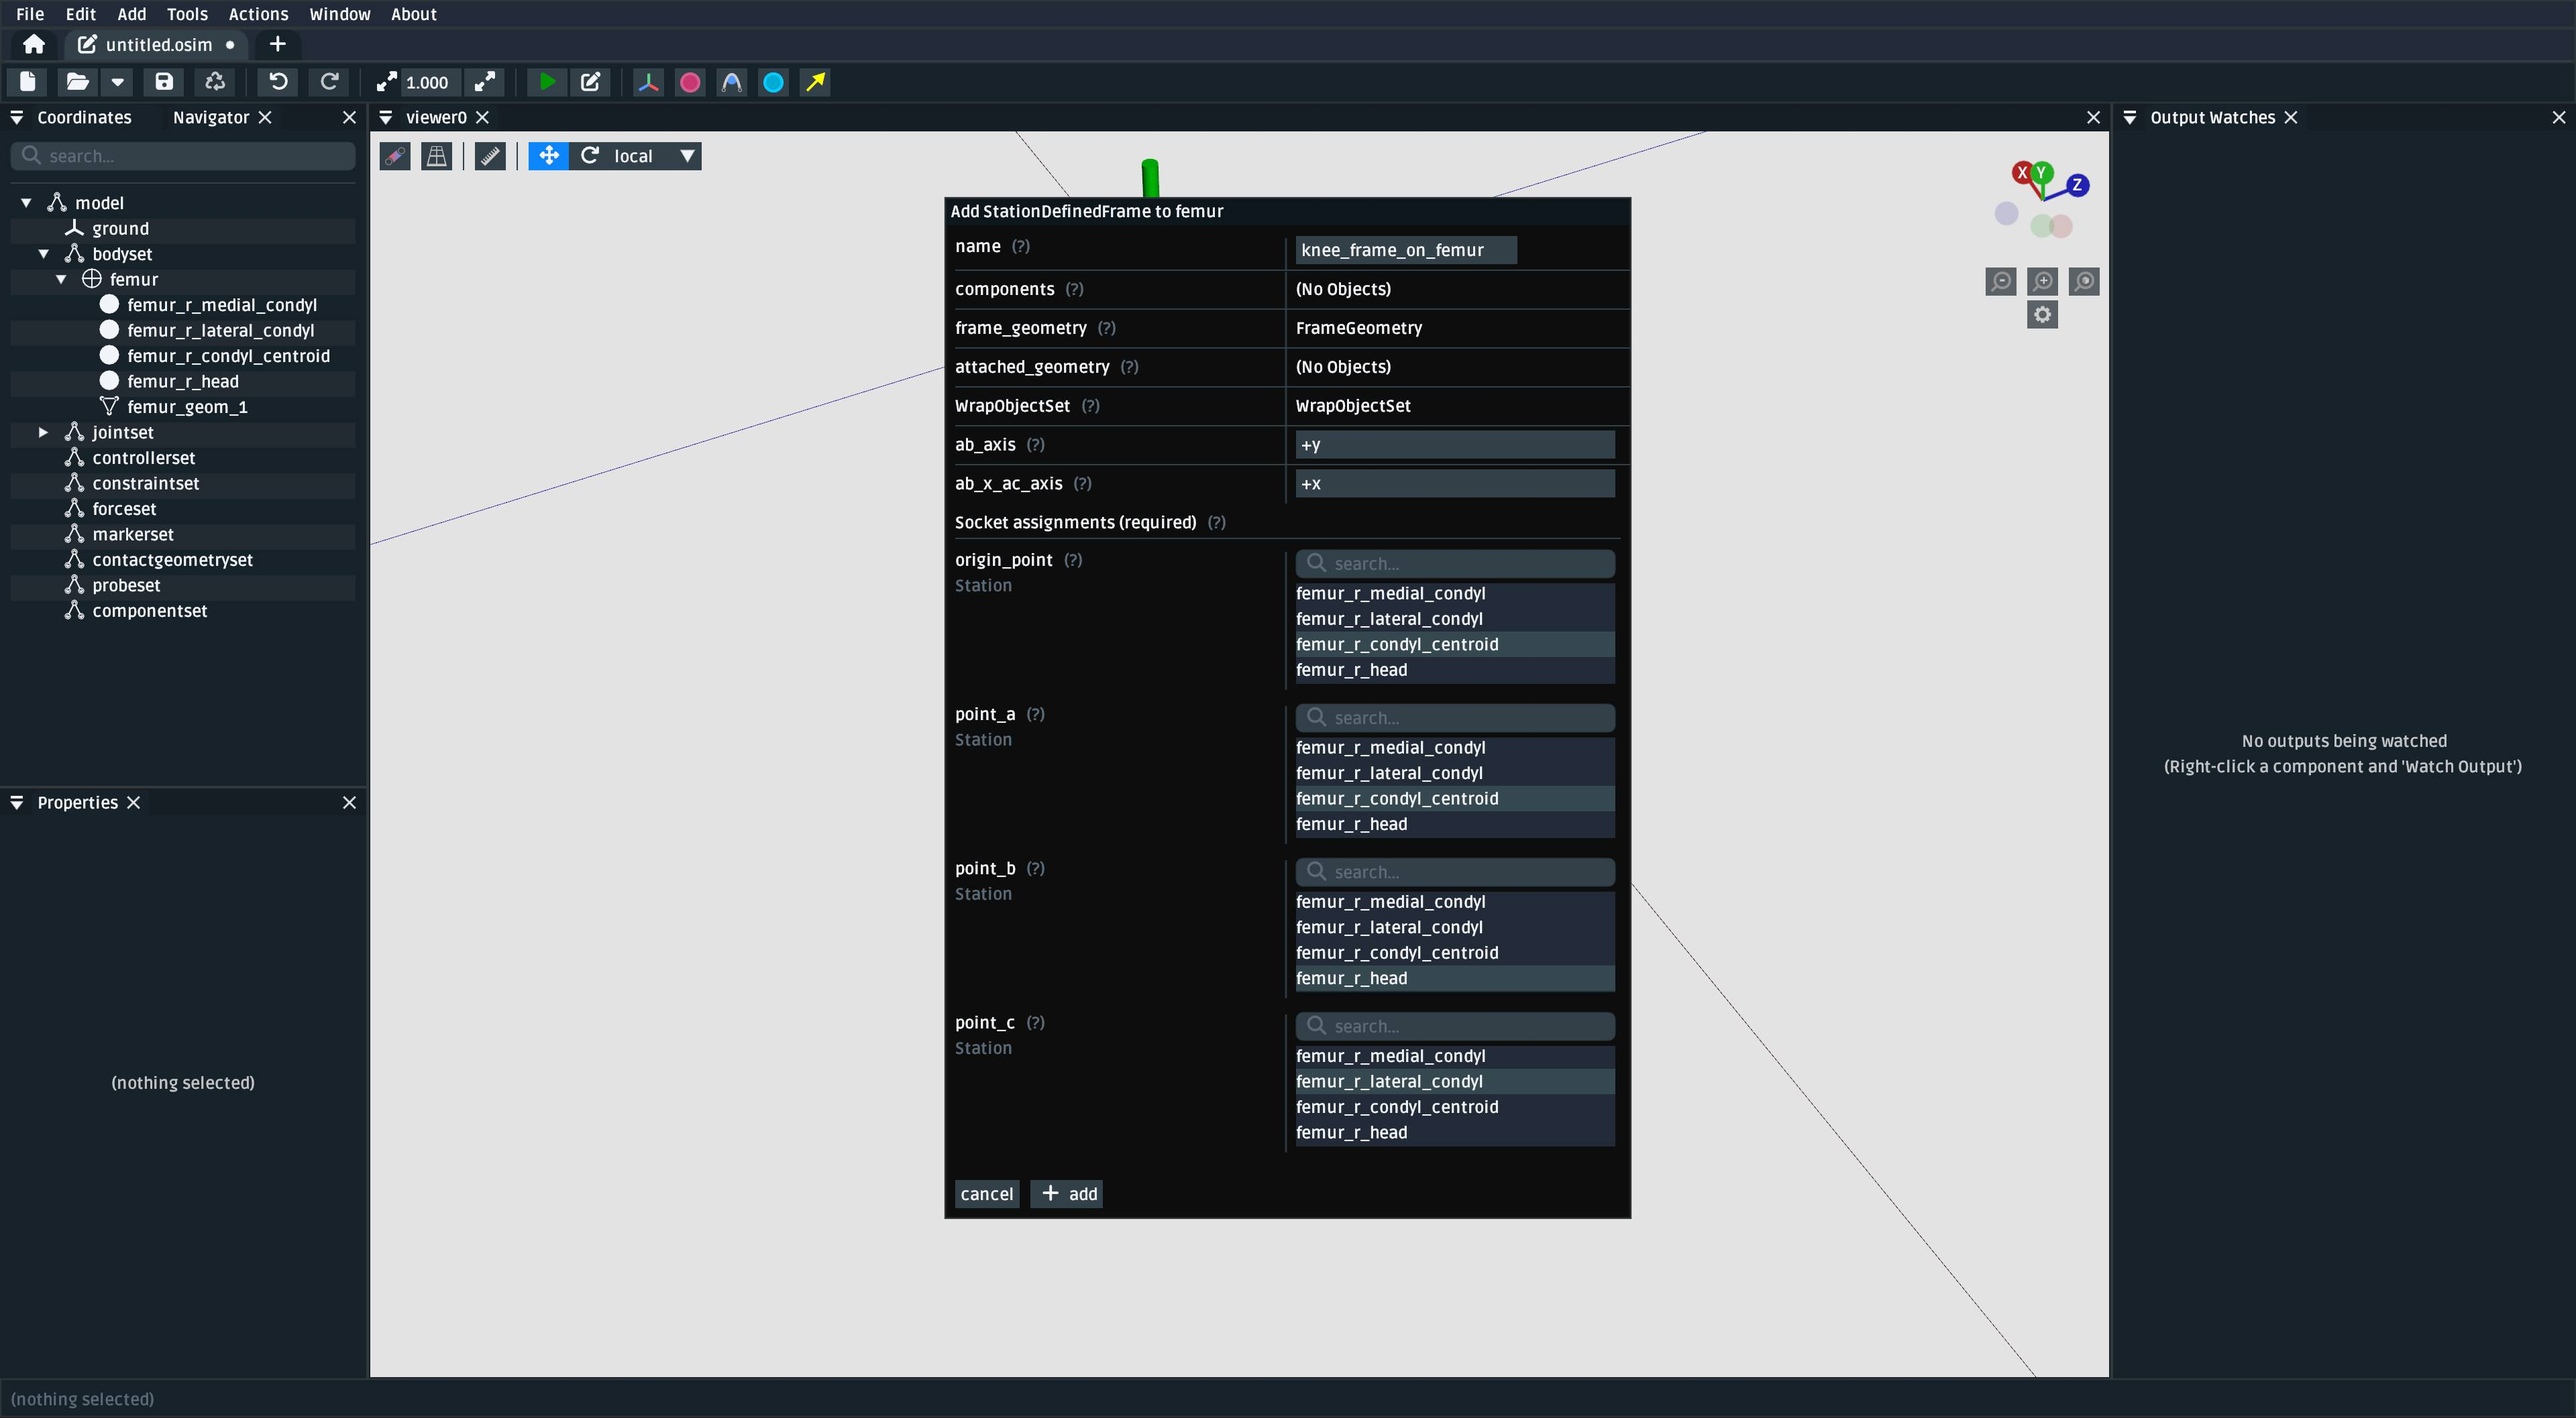
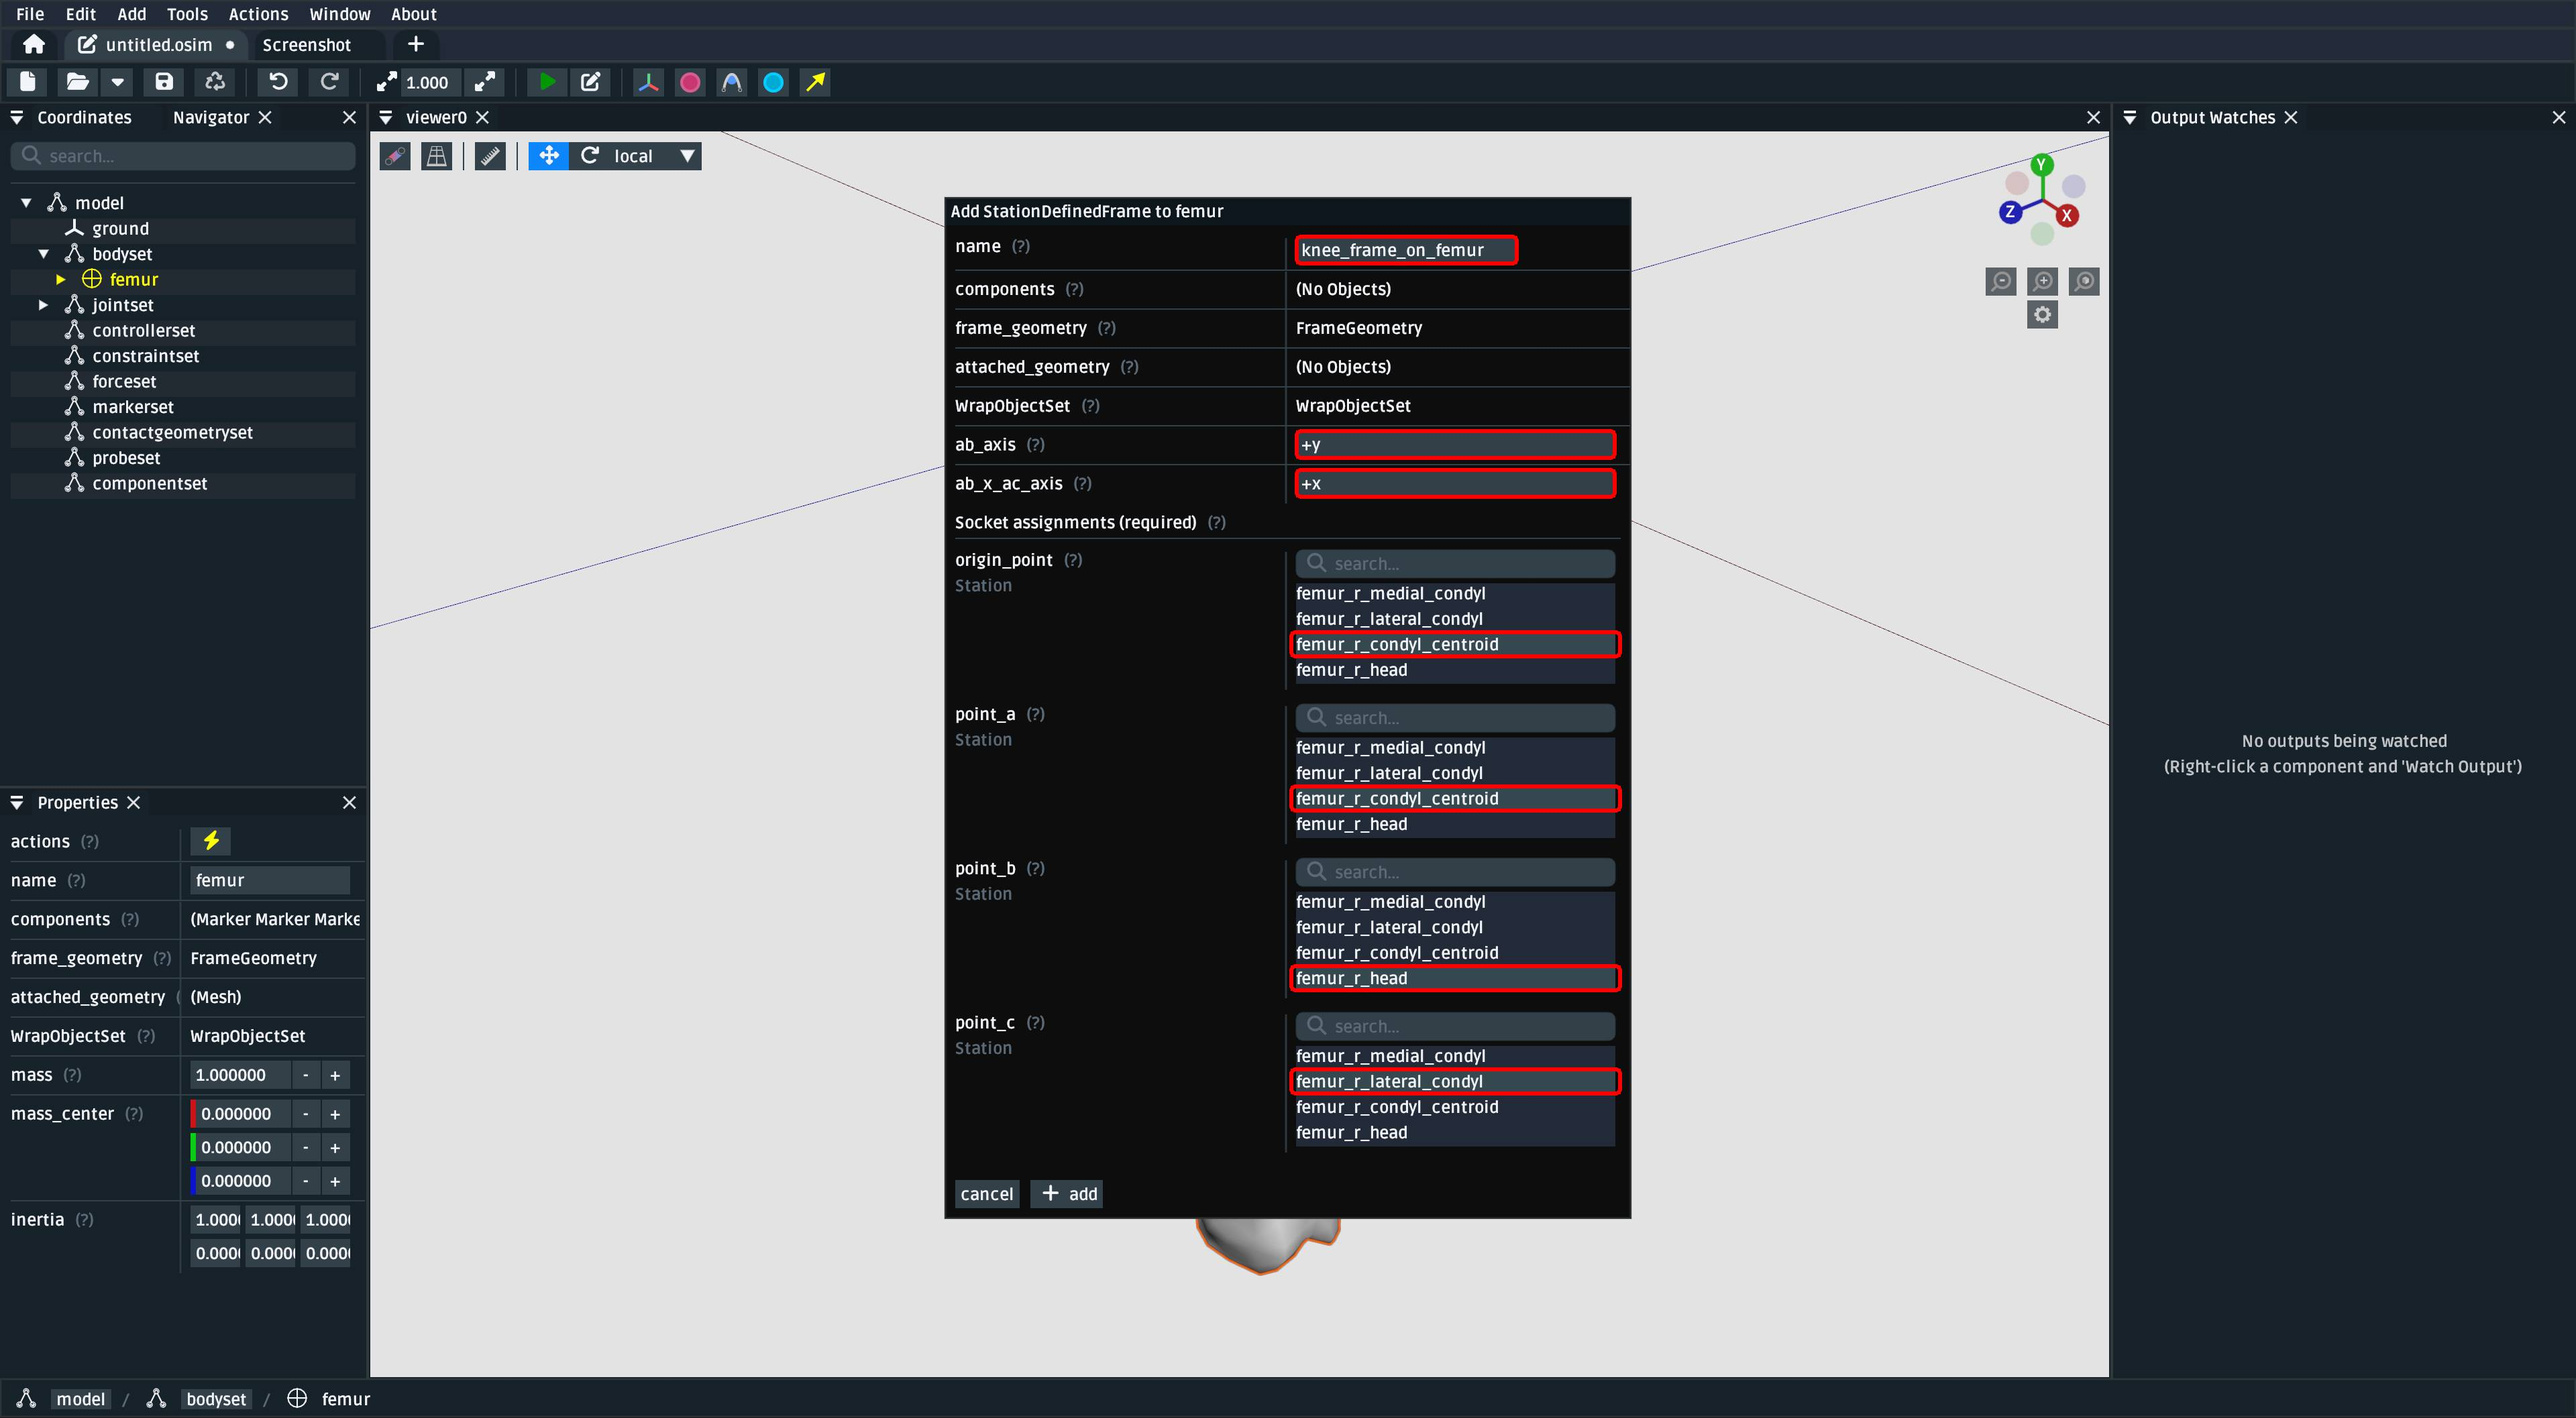
Add more content to make-a-knee

diff --git a/docs/source/make-a-knee.rst b/docs/source/make-a-knee.rst
@@ -63,8 +63,8 @@ Create a blank model from the home screen (explained in :ref:`create-new-model`)
 Add a Femur Body
 ----------------
 
-Add a femur body with the femur mesh attached to it to the model. For this model,
-use the following parameters:
+Add a femur body with the femur mesh (``femur_r.vtp``) attached to it to the
+model. For this model, use the following parameters:
 
 .. figure:: _static/make-a-knee/add-femur-body.jpeg
     :width: 60%
@@ -83,7 +83,10 @@ Import Femur Landmarks
 
 This model will use a landmark-defined approach to defining the knee frame (explained
 in :doc:`station-defined-frames`). To do that, we'll need landmarks on the femur that
-correspond to the points that the ISB REF TODO use to define the knee coordinate system.
+correspond to the points that can be used to define the knee's parent frame. The landmarks
+we will use roughly correspond to those explained in `Grood et. al.`_, but our definition
+will use the Z axis to define knee extension/flexion (Grood et. al. use the X axis) because
+OpenSim's ``PinJoint`` always uses the Z axis for rotation.
 
 You can use the point importer in the model editor from the top menu bar, located at ``Tools`` ->
 ``Import Points``. It will show a popup that you can use to import the source femur knee
@@ -121,69 +124,38 @@ markers:
 
     When creating the ``StationDefinedFrame``, make the ``femur_r_condyl_centroid`` the frame
     ``origin_point`` and ``point_a``, ``femur_r_head`` the ``point_b``, ``femur_r_lateral_condyl``
-    the ``point_c``. These are the 4 input landmarks. You can then specify that ``ab_axis`` is ``+y``
-    and ``ab_x_ac_axis`` is ``+x``.
+    the ``point_c``. Addtionally, specify that ``ab_axis`` is ``+y`` and ``ab_x_ac_axis`` is ``+x``.
+    The relationship between these landmarks specifies the knee's coordinate system.
+
+.. figure:: _static/make-a-knee/after-femur-sdf-added.jpeg
+    :width: 60%
+
+    Once added, you should be able to see the ``StationDefinedFrame`` in the model. This is the "parent"
+    half of a joint definition in OpenSim.
 
 
 Add a Tibia Body
 ----------------
 
-Similar to :ref:`add-femur-body`, add a tibia body with the tibia mesh
+Similar to :ref:`add-femur-body`, add a tibia body with the tibia mesh (``tibia_r.vtp``)
 attached to it to the model. For this model, use the following parameters:
 
-.. figure:: _static/make-a-bouncing-block/constraints-added.jpg
+.. figure:: _static/make-a-knee/add-tibia-body.jpeg
     :width: 60%
 
-    TODO: image and short explanation of body properties.
+    Add the ``tibia`` body to the model with these properties. Make sure to attach the
+    ``tibia_r.vtp`` mesh to the body.
 
-
-Add Tibia Landmarks
--------------------
-
-Similar to :ref:`import-femur-landmarks`, use the point importer to import the source
-tibia knee landmarks file (``femur_r_knee-frame.landmarks.csv``). Ensure they are
-attached to the ``tibia`` body:
-
-.. figure:: _static/make-a-bouncing-block/constraints-added.jpg
-    :width: 60%
-
-    TODO: picture of the import points dialog, short explanation that points out that
-    they should be attached to the ``femur`` body etc.
-
-
-Add a StationDefinedFrame to the Tibia Head
--------------------------------------------
-
-Similar to :ref:`add-sdfs-to-femur-condyls`, add a ``StationDefinedFrame`` to the ``tibia``
-body to define the tibia side of the knee joint:
-
-.. figure:: _static/make-a-bouncing-block/constraints-added.jpg
-    :width: 60%
-
-    TODO: screenshot of the "Add Component" dialog for a ``StationDefinedFrame`` showing
-    what the various sockets need to be to define the frame.
-
-
-Join the Tibia head SDF to the Femur Condyl SDF
------------------------------------------------
-
-Now that the model contains both bodies and they each have the necessary body frame, we can
-modify the joint between ``tibia`` and ground to instead join the two ``StationDefinedFrame``s
-we have created.
-
-To do that, right-click the tibia-to-ground joint that was added when the ``tibia`` body was
-created, go to ``sockets`` and change the ``parent_frame`` to the femur's ``StationDefinedFrame``
-then do the same for ``child_frame``, but have it point at the ``tibia`` ``StationDefinedFrame``.
-
-.. figure:: _static/make-a-bouncing-block/constraints-added.jpg
-    :width: 60%
-
-    TODO: screenshot of the socket menu showing both sockets of the appropriate joint pointing
-    to the SDFs rather than the default offset frames that were added during joint creation.
+To save some time, the provided tibia mesh data (``tibia_r.vtp``) is already defined with
+respect to the knee origin, which means that we do not need to define a ``StationDefinedFrame``
+for the tibia.
 
 
 Add a Muscle Between the Femur and the Tibia
 --------------------------------------------
+
+Now that both bodies have been added and joined with a ``PinJoint``, we can define muscles
+that connect the two bodies.
 
 TODO: describe adding relevant landmarks/stations or whatever is necessary in order to
 create a muscle that has one point on the femur and one point on the tibia. Point out that
@@ -210,3 +182,5 @@ Summary
 
 TODO: short summary that summarizes the various steps taken to build the model, what the model's
 simplications/shortcomings are, and suggestions for future improvements/steps.
+
+.. _Grood et. al.:  https://doi.org/10.1115/1.3138397
